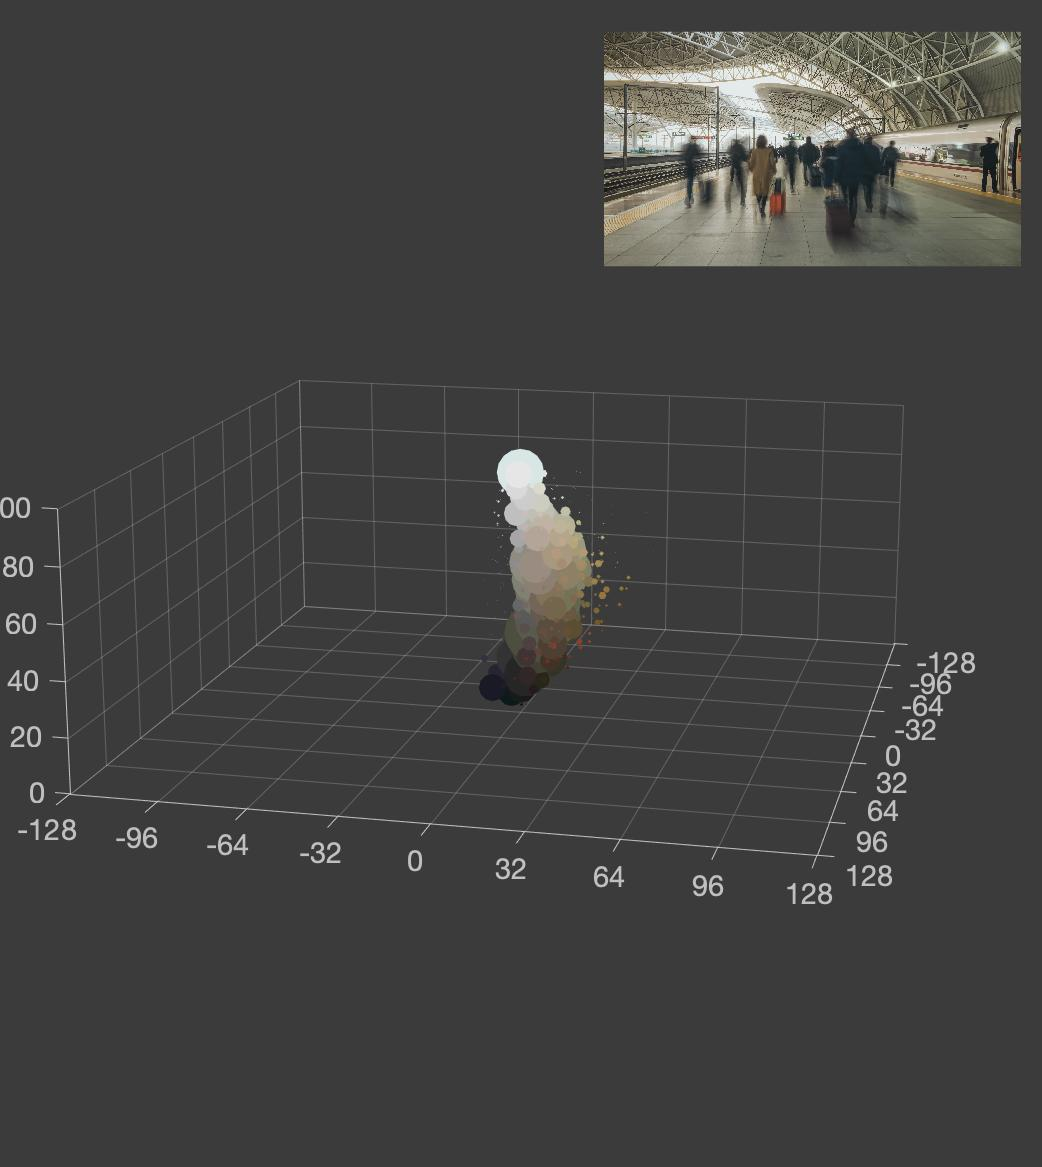
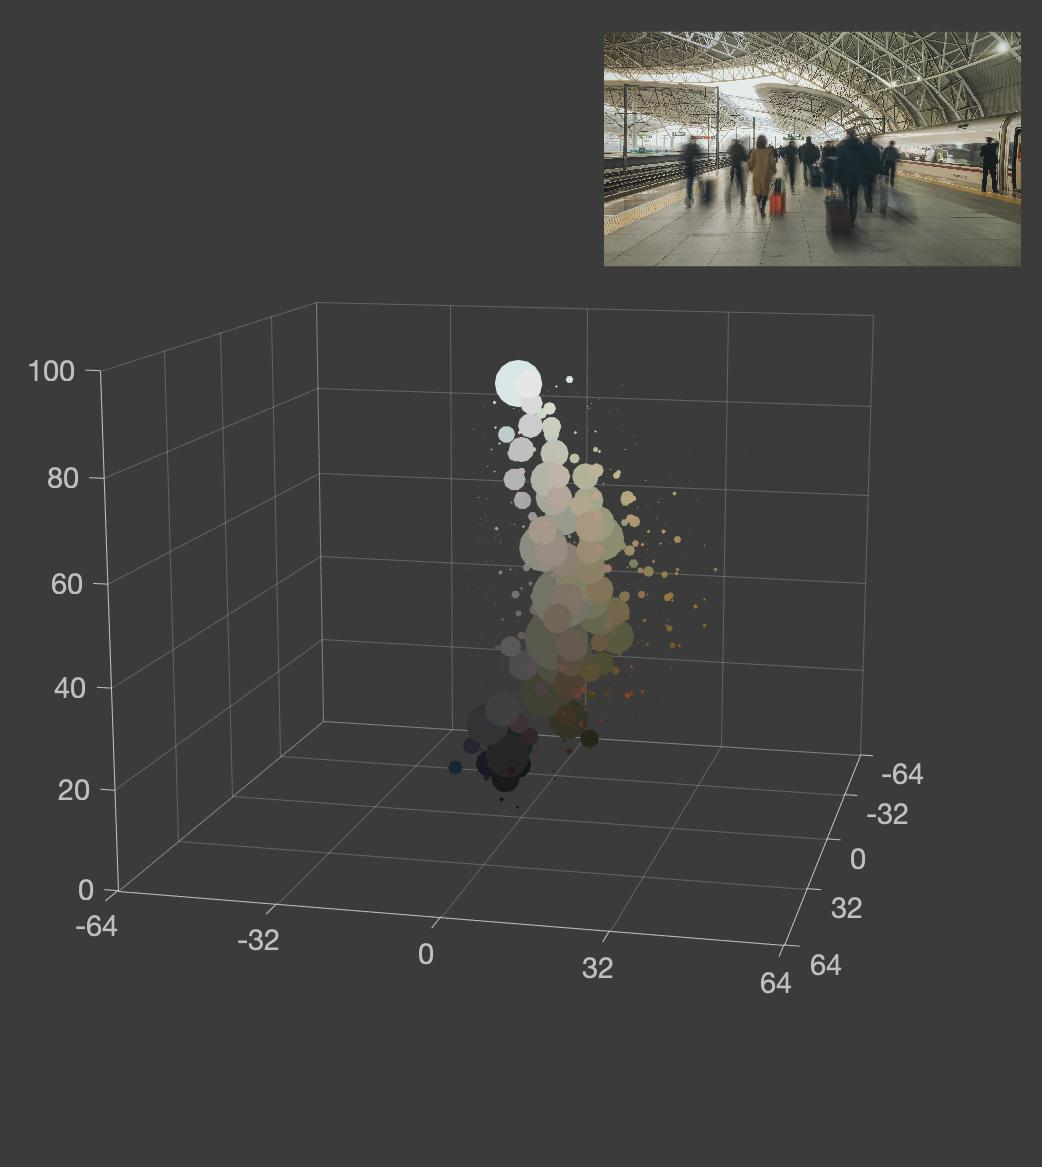
update example

diff --git a/README.md b/README.md
@@ -33,7 +33,7 @@ set(gcf, 'position', [800, 200, 500, 560]);
 
 axes('position', [0, 0, 1, 1]);
 plot_colorspace_bubble(img, 'Background', [1, 1, 1] * 0.23, 'TargetSpace', 'Lab');
-set(gca, 'CameraViewAngle', 23, 'CameraPosition', [5.0, 1.2, 1.6]*180);
+set(gca, 'CameraViewAngle', 23, 'CameraPosition', [5.0, 1.2, 1.6] * 100);
 
 axes('position', [0.58, 0.76, 0.4, 0.225]);
 imshow(img);
